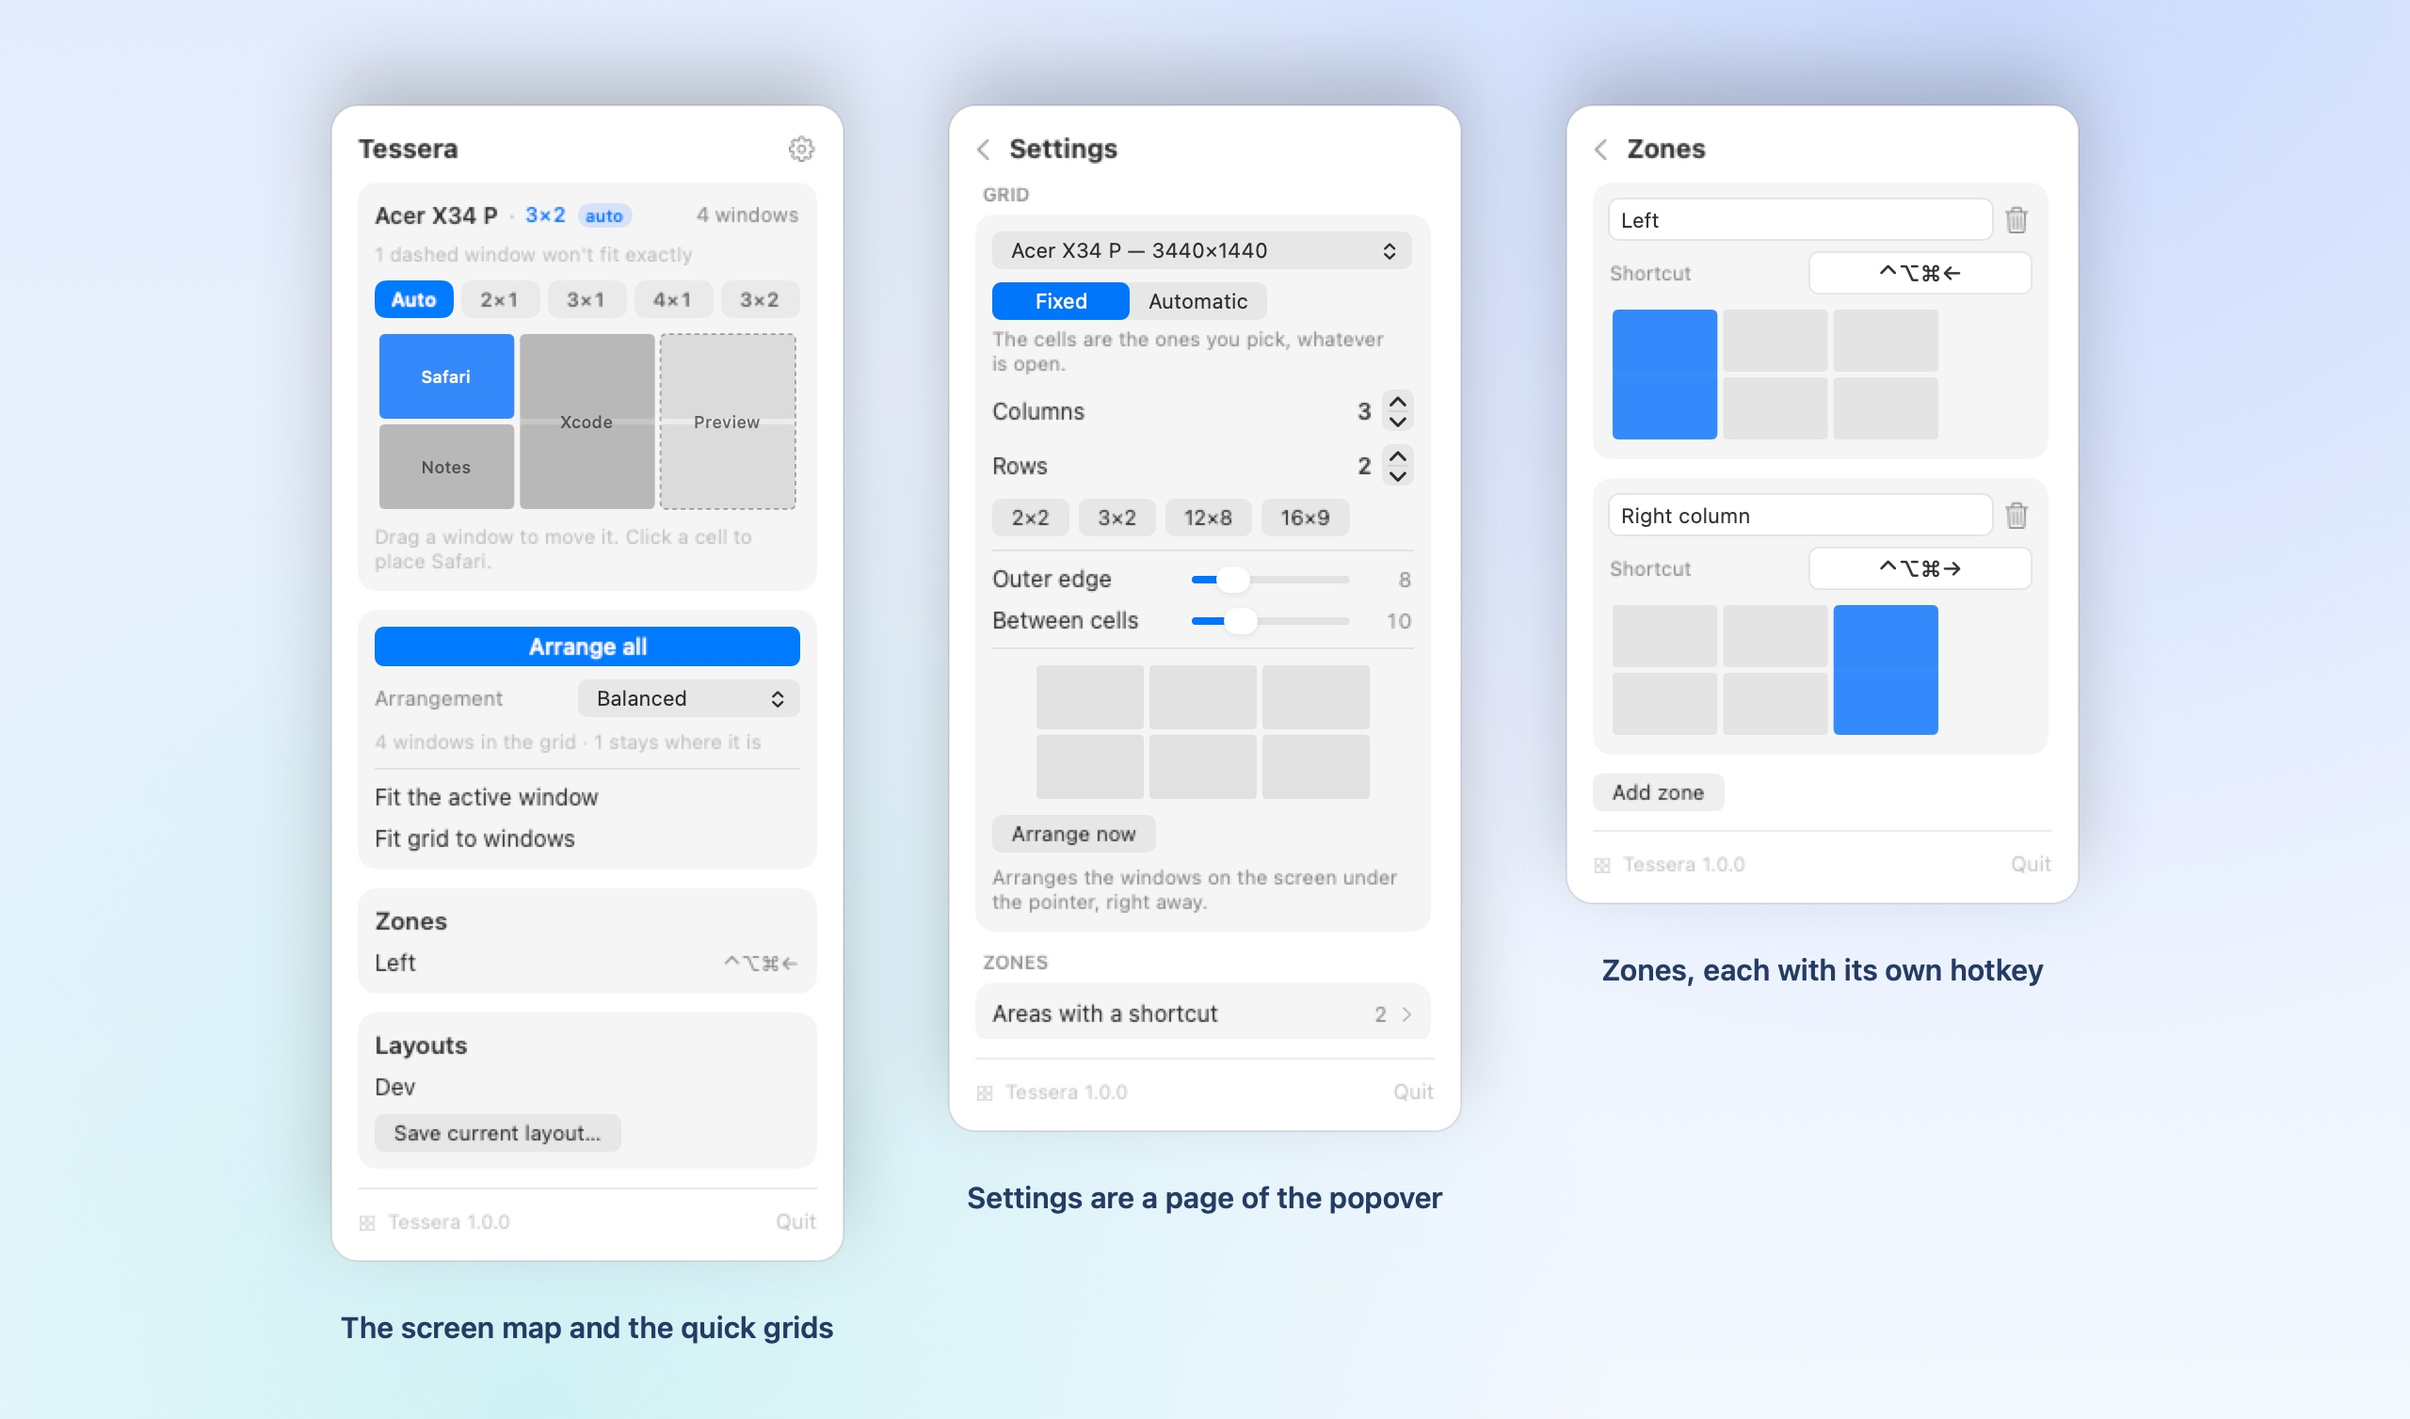
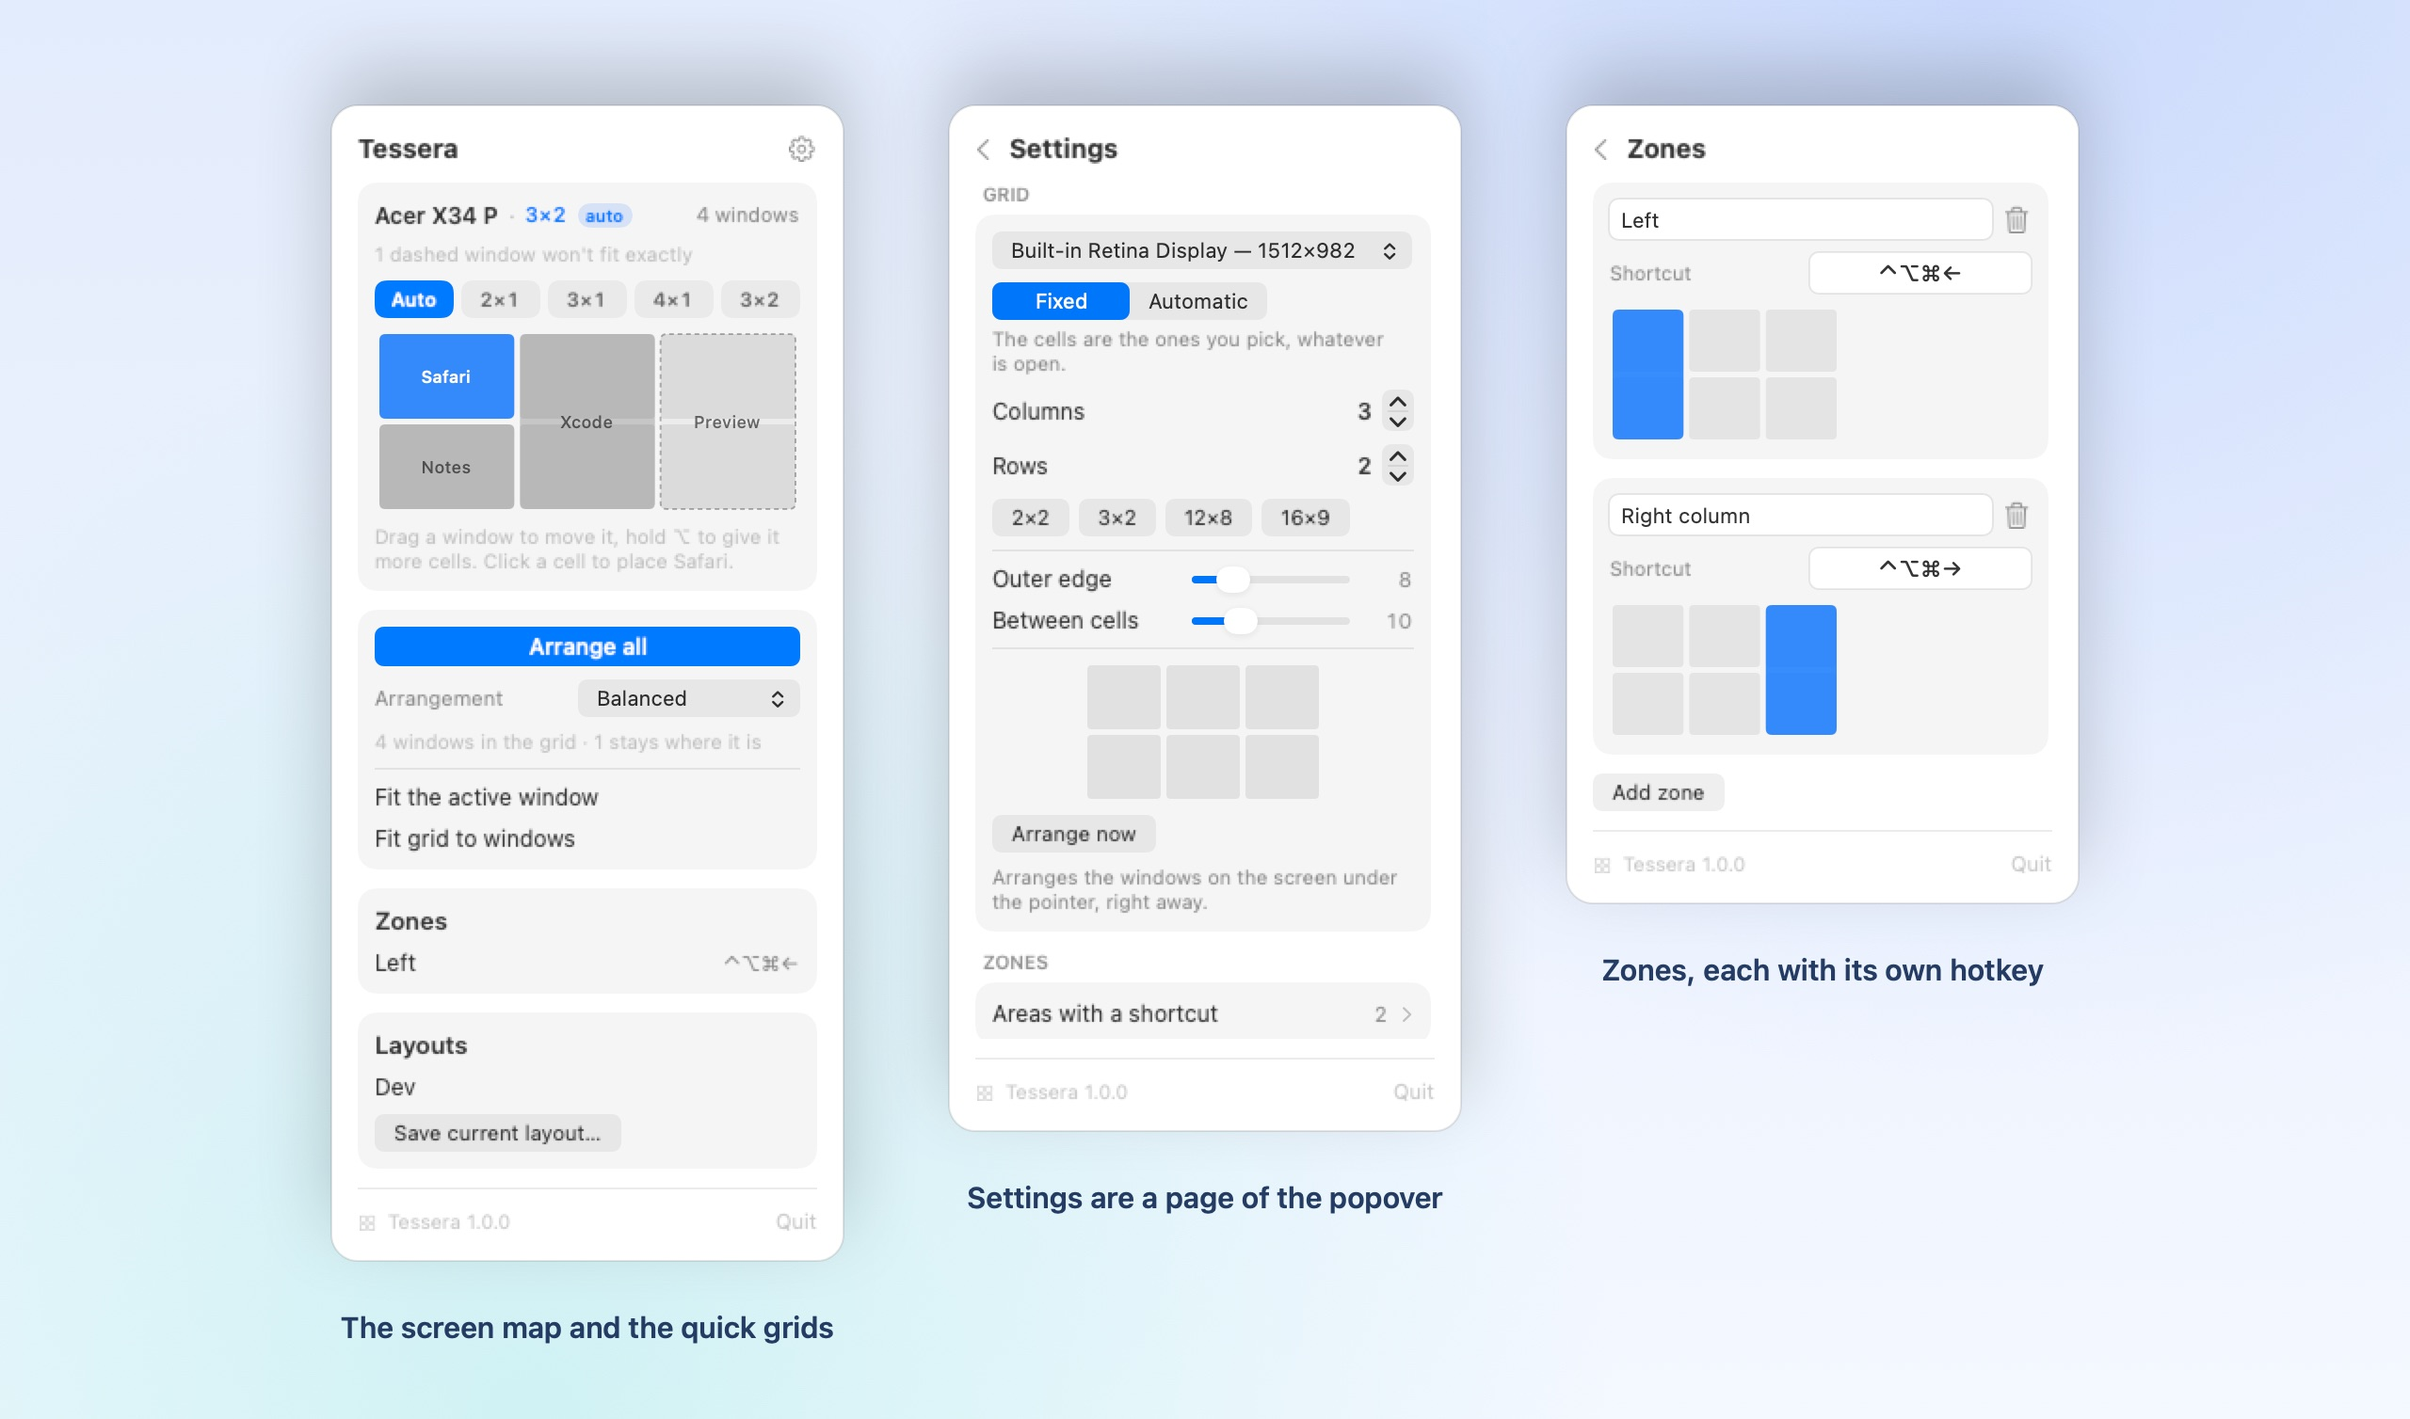
La mappa trascina anche le finestre testarde, e con alt le ridimensiona
Il difetto: le finestre che non accettano la dimensione della cella (la
mappa le disegna tratteggiate) erano escluse dal trascinamento, quindi il
gesto scivolava nello spazzare un rettangolo, che agisce sulla finestra in
primo piano. Trascinavi WhatsApp e si spostava Chrome.

Ora si trascinano tutte, e tenendo alt la finestra prende il rettangolo di
celle che spazzi invece di conservare la sua dimensione.

Anche un piazzamento singolo (mappa, scorciatoia di zona, --place) tiene
dentro lo schermo una finestra che non scende sotto il suo minimo. Nuovo
comando --place col,riga[,larghezza,altezza].

diff --git a/Sources/MenuBar.swift b/Sources/MenuBar.swift
@@ -117,6 +117,9 @@ struct GridPicker: View {
         let index: Int
         let colOffset: Int
         let rowOffset: Int
+        /// Where the press landed, which is where an ⌥-drag starts measuring its rectangle.
+        let pressCol: Int
+        let pressRow: Int
     }
 
     @State private var anchor: CellRect?
@@ -198,14 +201,19 @@ struct GridPicker: View {
                 let current = cell(at: value.location, in: size)
                 let g = grid.clamped()
                 if anchor == nil && windowDrag == nil {
+                    // Front to back, so the tile drawn on top is the one picked up — including
+                    // a dashed one: a window that cannot take the size of its cell can still be
+                    // moved, and refusing to drag it is how it used to fall through to the
+                    // sweep and move the front window instead.
                     let held = occupants.firstIndex {
-                        !$0.resistant && $0.cell.clamped(to: g).contains(col: current.col, row: current.row)
+                        $0.cell.clamped(to: g).contains(col: current.col, row: current.row)
                     }
                     if let held, onMove != nil {
                         let cell = occupants[held].cell.clamped(to: g)
                         windowDrag = WindowDrag(index: held,
                                                 colOffset: current.col - cell.col,
-                                                rowOffset: current.row - cell.row)
+                                                rowOffset: current.row - cell.row,
+                                                pressCol: current.col, pressRow: current.row)
                     } else {
                         anchor = CellRect(col: current.col, row: current.row)
                     }
@@ -214,10 +222,17 @@ struct GridPicker: View {
                     travelled = true
                 }
                 if let drag = windowDrag {
-                    let cell = occupants[drag.index].cell.clamped(to: g)
-                    let col = min(max(0, current.col - drag.colOffset), max(0, g.cols - cell.w))
-                    let row = min(max(0, current.row - drag.rowOffset), max(0, g.rows - cell.h))
-                    highlight = CellRect(col: col, row: row, w: cell.w, h: cell.h)
+                    if NSEvent.modifierFlags.contains(.option) {
+                        // Hold ⌥ and the window takes the rectangle you sweep instead of
+                        // keeping its own size: that is how a window becomes a tall column.
+                        highlight = CellRect.spanning((drag.pressCol, drag.pressRow), current)
+                            .clamped(to: grid)
+                    } else {
+                        let cell = occupants[drag.index].cell.clamped(to: g)
+                        let col = min(max(0, current.col - drag.colOffset), max(0, g.cols - cell.w))
+                        let row = min(max(0, current.row - drag.rowOffset), max(0, g.rows - cell.h))
+                        highlight = CellRect(col: col, row: row, w: cell.w, h: cell.h)
+                    }
                 } else if let start = anchor {
                     highlight = CellRect.spanning((start.col, start.row), current).clamped(to: grid)
                 }
@@ -512,10 +527,9 @@ struct TesseraPopover: View {
                 ? String(format: tr("Click or drag to place %@."), model.appName ?? "")
                 : tr("Bring a window to the front to place it.")
         }
-        return model.canPlace
-            ? String(format: tr("Drag a window to move it. Click a cell to place %@."),
-                     model.appName ?? "")
-            : tr("Drag a window to move it.")
+        let dragging = tr("Drag a window to move it, hold ⌥ to give it more cells.")
+        guard model.canPlace else { return dragging }
+        return dragging + " " + String(format: tr("Click a cell to place %@."), model.appName ?? "")
     }
 
     private var arrangeCard: some View {

diff --git a/Sources/main.swift b/Sources/main.swift
@@ -161,6 +161,7 @@ final class AppController {
     static let exitFullScreenNotification = Notification.Name("sh.tessera.exitfullscreen")
     static let diagnoseNotification = Notification.Name("sh.tessera.diagnose")
     static let arrangeNotification = Notification.Name("sh.tessera.arrange")
+    static let placeNotification = Notification.Name("sh.tessera.place")
 
     static var supportDirectory: URL {
         FileManager.default.urls(for: .applicationSupportDirectory, in: .userDomainMask)[0]
@@ -207,6 +208,29 @@ final class AppController {
                          restored.joined(separator: ", "))) + "\n"
             try? report.write(to: Self.supportDirectory.appendingPathComponent("diagnose.txt"),
                               atomically: true, encoding: .utf8)
+        }
+        center.addObserver(forName: Self.placeNotification, object: nil, queue: .main) { note in
+            // "col,row,w,h;screen" — the front window into one rectangle of the grid.
+            let parts = (note.object as? String)?.components(separatedBy: ";") ?? []
+            let numbers = (parts.first ?? "").split(separator: ",").compactMap { Int($0) }
+            let report: String
+            if numbers.count < 2 {
+                report = tr("Usage: --place col,row[,width,height] [--screen name]")
+            } else if let window = AX.focusedWindow() {
+                let cell = CellRect(col: numbers[0], row: numbers[1],
+                                    w: numbers.count > 2 ? numbers[2] : 1,
+                                    h: numbers.count > 3 ? numbers[3] : 1)
+                let screen = parts.count > 1 && !parts[1].isEmpty
+                    ? AppController.screen(matching: parts[1]) : AX.screen(of: window)
+                let grid = Store.shared.config.grid(for: screen.tesseraKey)
+                AX.place(window, in: cell.clamped(to: grid), on: screen)
+                report = String(format: tr("%@ placed in col %d row %d %d×%d."),
+                                window.appName, cell.col, cell.row, cell.w, cell.h)
+            } else {
+                report = tr("No window is in front.")
+            }
+            try? (report + "\n").write(to: Self.supportDirectory.appendingPathComponent("diagnose.txt"),
+                                       atomically: true, encoding: .utf8)
         }
         center.addObserver(forName: Self.arrangeNotification, object: nil, queue: .main) { [weak self] note in
             // The command line packs "strategy;screen" into the one string a distributed
@@ -370,6 +394,13 @@ func askRunningApp(_ name: Notification.Name, strategy: String?) -> Bool {
     }
     print(tr("Tessera did not answer within 4 seconds."))
     return false
+}
+
+if let index = arguments.firstIndex(of: "--place"), arguments.count > index + 1 {
+    let screenIndex = arguments.firstIndex(of: "--screen")
+    let screen = screenIndex.flatMap { arguments.count > $0 + 1 ? arguments[$0 + 1] : nil } ?? ""
+    _ = askRunningApp(AppController.placeNotification, strategy: "\(arguments[index + 1]);\(screen)")
+    exit(0)
 }
 
 if arguments.contains("--diagnose") {

diff --git a/Sources/Localization.swift b/Sources/Localization.swift
@@ -51,9 +51,9 @@ let italian: [String: String] = [
     "%d dashed windows won't fit exactly": "%d tratteggiate non si piazzano esatte",
     "Accessibility access is needed to see the windows.":
         "Serve l'accesso Accessibilità per vedere le finestre.",
-    "Drag a window to move it. Click a cell to place %@.":
-        "Trascina una finestra per spostarla. Clicca una cella per piazzare %@.",
-    "Drag a window to move it.": "Trascina una finestra per spostarla.",
+    "Drag a window to move it, hold ⌥ to give it more cells.":
+        "Trascina una finestra per spostarla, tieni ⌥ per darle più celle.",
+    "Click a cell to place %@.": "Clicca una cella per piazzare %@.",
     "Click or drag to place %@.": "Clic o trascina per piazzare %@.",
     "Bring a window to the front to place it.": "Porta davanti una finestra per poterla piazzare.",
     "Arrange all": "Sistema tutto",
@@ -138,6 +138,10 @@ let italian: [String: String] = [
         "Schermo %@: griglia %d×%d dalle finestre aperte, sistemate %d.",
     "1 window needed a second nudge.": "1 finestra ha avuto bisogno di una seconda spinta.",
     "%d windows needed a second nudge.": "%d finestre hanno avuto bisogno di una seconda spinta.",
+    "Usage: --place col,row[,width,height] [--screen name]":
+        "Uso: --place colonna,riga[,larghezza,altezza] [--screen nome]",
+    "%@ placed in col %d row %d %d×%d.": "%@ piazzata in col %d riga %d %d×%d.",
+    "No window is in front.": "Nessuna finestra in primo piano.",
     "Popover closed.": "Popover chiuso.",
     "Settings open in the popover.": "Impostazioni aperte nel popover.",
     "No window is in full screen.": "Nessuna finestra a tutto schermo.",

diff --git a/Sources/WindowsAX.swift b/Sources/WindowsAX.swift
@@ -305,7 +305,24 @@ enum AX {
         let fillsScreen = abs(current.width - screen.visibleFrame.width) < 4
             && abs(current.height - screen.visibleFrame.height) < 4
         writeFrame(window.element, to: target, shrinkFirst: fillsScreen)
+        keepOnScreen(window.element, hungFrom: target, within: screen.visibleFrame)
         return true
+    }
+
+    /// An app with a minimum size larger than the cell keeps its size — its right — but hung
+    /// from the cell's top-left corner it then sticks out past the edge of the screen, which is
+    /// no use to anybody. Same size, same corner, slid back inside. The read happens after a
+    /// beat, because an app answers a write on its own run loop and not before.
+    static func keepOnScreen(_ window: AXUIElement, hungFrom target: CGRect, within visible: CGRect) {
+        usleep(120_000)
+        guard let now = frame(of: window) else { return }
+        guard now.minX < visible.minX - 1 || now.minY < visible.minY - 1
+                || now.maxX > visible.maxX + 1 || now.maxY > visible.maxY + 1 else { return }
+        var rect = CGRect(x: target.minX, y: target.maxY - now.height,
+                          width: now.width, height: now.height)
+        rect.origin.x = min(max(rect.minX, visible.minX), max(visible.minX, visible.maxX - rect.width))
+        rect.origin.y = min(max(rect.minY, visible.minY), max(visible.minY, visible.maxY - rect.height))
+        writeFrame(window, to: rect)
     }
 
     /// The screen a window mostly sits on.

diff --git a/README.md b/README.md
@@ -101,7 +101,9 @@ app and macOS asks again.
 are the quick grid presets, **Arrange all**, and the pages for zones, layouts and settings.
 
 - **Move one window:** drag its tile on the map to another cell. That window moves, not the front
-  one, and the popover stays open so you can move the next one.
+  one, and the popover stays open so you can move the next one. Hold **⌥** while dragging to give
+  it a rectangle of cells instead of keeping its size — that is how a window becomes a tall column.
+  A dashed tile (an app that cannot take the size of its cell) drags like any other.
 - **Place the front window:** click a cell, or drag across a rectangle of cells starting from an
   empty one.
 - **Pick a grid:** tap a preset (2×1, 3×1, 4×1, 3×2, 4×2) or set columns and rows with the
@@ -123,6 +125,7 @@ $T --diagnose                       # what it sees and what it would do — move
 $T --arrange balanced               # arrange the screen under the pointer
 $T --arrange cells --screen Acer     # a chosen arrangement, on a chosen screen
 $T --fit-grid --screen Acer          # pick the grid from the open windows, then tile them all
+$T --place 2,0,1,2                   # the front window into a rectangle of cells: col,row,w,h
 $T --exit-fullscreen                 # bring full-screen windows back to the Desktop
 $T --icon icon.png 512               # draw the app icon (the only command that needs no permission)
 ```

diff --git a/CHANGELOG.md b/CHANGELOG.md
@@ -6,7 +6,13 @@
   click away, with the arrangement named in a picker instead of hidden behind an icon. Picking an
   arrangement makes it the default and applies it.
 - **Move one window from the map**: drag its tile to another cell. That window moves, not the
-  front one, and the popover stays open.
+  front one, and the popover stays open. Hold ⌥ while dragging to give it a rectangle of cells
+  instead of keeping its size. Windows an app will not resize drag like any other — before, they
+  could not be dragged at all, and the gesture silently moved the front window instead.
+- **`--place col,row[,w,h]`**: the front window into one rectangle of the grid, from the command
+  line.
+- A single placement (map, zone hotkey, `--place`) also keeps a window that refuses to shrink
+  inside the screen, instead of hanging it off the edge.
 - **The pairing of windows to cells now minimises movement**: a window already on its cell stays
   there instead of swapping with a neighbour. `--diagnose` shows the same pairing an arrangement
   would use.
